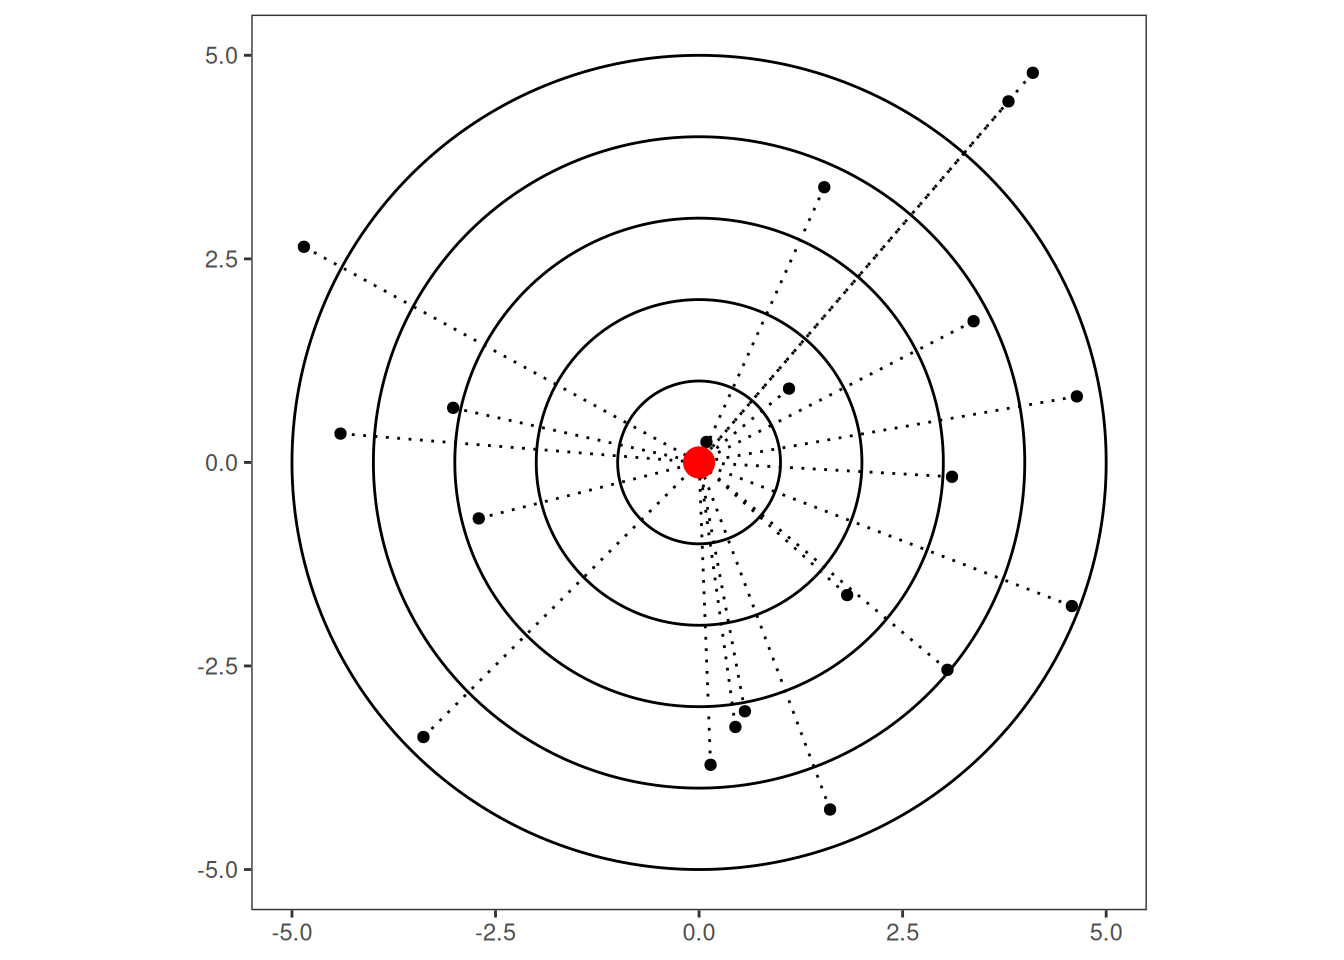
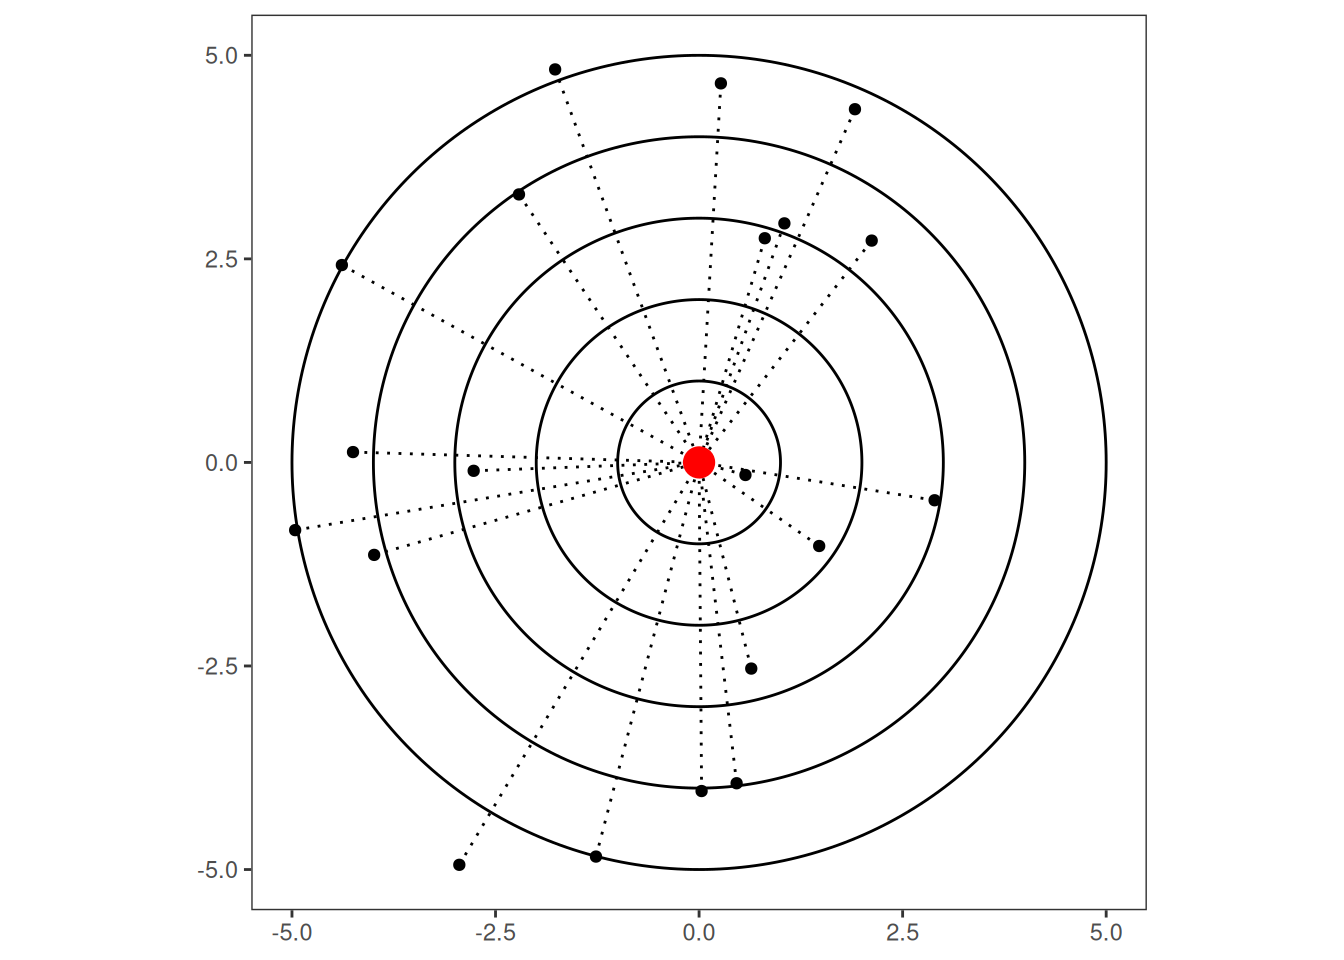
install package here

diff --git a/_site/curso/estatistica/resumo_dados/resumo_dados.html b/_site/curso/estatistica/resumo_dados/resumo_dados.html
@@ -337,6 +337,7 @@ window.Quarto = {
   <li><a href="#medidas-de-dispersão" id="toc-medidas-de-dispersão" class="nav-link" data-scroll-target="#medidas-de-dispersão">Medidas de dispersão</a>
   <ul class="collapse">
   <li><a href="#medidas-de-dispersão-para-a-média." id="toc-medidas-de-dispersão-para-a-média." class="nav-link" data-scroll-target="#medidas-de-dispersão-para-a-média.">Medidas de dispersão para a média.</a></li>
+  <li><a href="#medidas-de-dispersão-para-a-mediana" id="toc-medidas-de-dispersão-para-a-mediana" class="nav-link" data-scroll-target="#medidas-de-dispersão-para-a-mediana">Medidas de dispersão para a mediana</a></li>
   </ul></li>
   </ul></li>
   </ul>
@@ -2051,7 +2052,7 @@ Figura&nbsp;3: Alvo localizado no ponto vermelho. Os pontos pretos representam d
 </div>
 </div>
 </div>
-<p>Considere um outro exemplo utilizando os valores da <a href="#tbl-amostra_pequena" class="quarto-xref">Tabela&nbsp;5</a>. A <a href="#fig-variancia" class="quarto-xref">Figura&nbsp;4</a> apresenta a distância relativa dos valores em relação ao valor médio. A linha vermelha representa a média dos dados. As distâncias relativas entre os valores e a média estão sendo representados pelas linhas pontilhadas.</p>
+<p>Considere um outro exemplo utilizando os valores da <a href="#tbl-amostra_pequena" class="quarto-xref">Tabela&nbsp;5</a>. A <a href="#fig-variancia" class="quarto-xref">Figura&nbsp;4</a> apresenta a distância relativa dos valores em relação ao valor médio. A linha vermelha representa a média dos dados. As distâncias relativas entre os valores e a média estão sendo representados por linhas pontilhadas.</p>
 <div class="cell">
 <details class="code-fold">
 <summary>Código</summary>
@@ -2151,10 +2152,35 @@ Dica
 <p><span id="eq-coeficiente_variacao"><span class="math display">\[
 cv = \frac{S}{\bar{x}}.
 \tag{7}\]</span></span></p>
-
-
-
 </section>
+</section>
+<section id="medidas-de-dispersão-para-a-mediana" class="level3">
+<h3 class="anchored" data-anchor-id="medidas-de-dispersão-para-a-mediana">Medidas de dispersão para a mediana</h3>
+<p>Às vezes média e desvio padrão não representam de maneira adequada o conjunto de dados, pois</p>
+<ul>
+<li>São fortemente afetados por valores extremos;</li>
+<li>Não reproduzem adequadamente certas características, como simetria na distribuição de dados. Vimos que a mediana é uma boa alternativa quando temos valores extremos influenciando a média. Agora, qual medida poderemos utilizar para representar melhor casos de simetria do problema? Uma maneira seria particionar a distribuição de dados em parcelas fixas chamadas de <strong>quantis empíricos</strong>.</li>
+</ul>
+<div class="callout callout-style-default callout-tip callout-titled">
+<div class="callout-header d-flex align-content-center">
+<div class="callout-icon-container">
+<i class="callout-icon"></i>
+</div>
+<div class="callout-title-container flex-fill">
+Dica
+</div>
+</div>
+<div class="callout-body-container callout-body">
+<ul>
+<li>Chamamos de quartil os quantis que fatiam o conjunto de dados em 25%;</li>
+<li>A mediana é chamada de segundo quartil.</li>
+</ul>
+</div>
+</div>
+<p>Considere o conjunto de dados par da <a href="#tbl-amostra_pequena_ordenada" class="quarto-xref">Tabela&nbsp;6</a>. Podemos dizer que os valores 2,5, 5,2, 5,2 e 5,2 representam 25% dos dados. Essas parcela chamamos de primeiro quartil.</p>
+
+
+
 </section>
 </section>
 </section>

diff --git a/_site/curso/estatistica/curso_estatistica.html b/_site/curso/estatistica/curso_estatistica.html
@@ -281,7 +281,7 @@ window.Quarto = {
 
 <div class="quarto-listing quarto-listing-container-grid" id="listing-listing">
 <div class="list grid quarto-listing-cols-3">
-<div class="g-col-1" data-index="0" data-categories="ZXN0YXRpc3RpY2FfZGVzY3JpdGl2YQ==" data-listing-date-sort="1785985200000" data-listing-file-modified-sort="1787578132676" data-listing-date-modified-sort="1787540400000" data-listing-reading-time-sort="27" data-listing-word-count-sort="5329">
+<div class="g-col-1" data-index="0" data-categories="ZXN0YXRpc3RpY2FfZGVzY3JpdGl2YQ==" data-listing-date-sort="1785985200000" data-listing-file-modified-sort="1787579399022" data-listing-date-modified-sort="1787540400000" data-listing-reading-time-sort="28" data-listing-word-count-sort="5457">
 <a href="../../curso/estatistica/resumo_dados/resumo_dados.html" class="quarto-grid-link">
 <div class="quarto-grid-item card h-100 card-left">
 <p class="card-img-top"><img loading='lazy' src="resumo_dados/resumo_dados_files/figure-html/fig-moda-1.png" style="height: 150px;"  class="thumbnail-image card-img"/></p>
